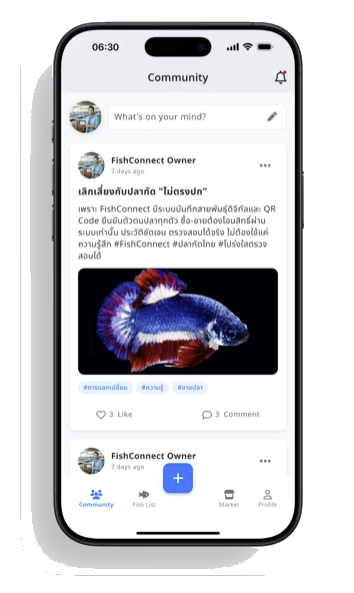
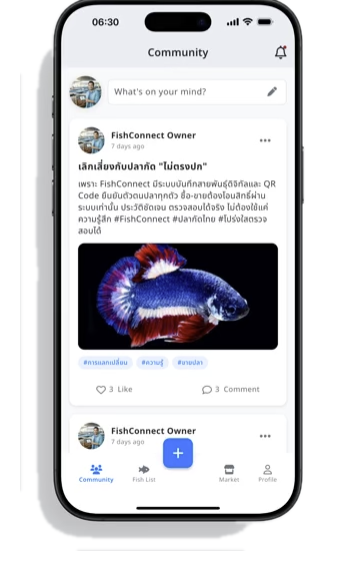
Final polish: feathered phone edges, fish visible (opacity .28-.35), no rectangular borders

diff --git a/index.html b/index.html
@@ -90,11 +90,12 @@ h1, h2, h3, h4 {
   line-height: 1.7; max-width: 640px;
 }
 
-/* ============== AMBIENT FISH BG (subtle, low opacity) ============== */
+/* ============== AMBIENT FISH BG ============== */
 .ambient {
   position: absolute; pointer-events: none; z-index: 0;
-  opacity: .14; filter: blur(.5px);
-  mix-blend-mode: screen;
+  opacity: .28;
+  -webkit-mask-image: radial-gradient(ellipse 60% 60% at center, black 25%, transparent 80%);
+          mask-image: radial-gradient(ellipse 60% 60% at center, black 25%, transparent 80%);
 }
 
 /* ============== NAV ============== */
@@ -203,8 +204,10 @@ section { position: relative; }
 @media (max-width: 920px) { .hero-actions { justify-content: center; } }
 .hero-img { animation: hero-float 8s ease-in-out infinite; }
 .hero-img img {
-  width: 100%; height: auto; max-width: 580px; margin: 0 auto;
-  filter: drop-shadow(0 0 100px rgba(79,122,255,.5));
+  width: 100%; height: auto; max-width: 600px; margin: 0 auto;
+  filter: drop-shadow(0 0 120px rgba(79,122,255,.55));
+  -webkit-mask-image: radial-gradient(ellipse 65% 65% at center, black 50%, transparent 88%);
+          mask-image: radial-gradient(ellipse 65% 65% at center, black 50%, transparent 88%);
 }
 @keyframes hero-float {
   0%, 100% { transform: translateY(0); }
@@ -278,21 +281,21 @@ section { position: relative; }
 .feature-img img.phone {
   position: relative; z-index: 2;
   width: 100%; max-width: 420px; height: auto;
-  filter: drop-shadow(0 30px 80px rgba(0,0,0,.55)) drop-shadow(0 0 80px rgba(79,122,255,.22));
+  filter: drop-shadow(0 30px 60px rgba(0,0,0,.55)) drop-shadow(0 0 100px rgba(79,122,255,.28));
 }
 
-/* Fish ambient at SECTION level — far from phone, very subtle */
+/* Fish ambient at SECTION level — visible but doesn't compete with phone */
 .feature .fish-bg {
   position: absolute; pointer-events: none; z-index: 0;
-  width: 50%; max-width: 620px; height: auto;
-  opacity: .10;
-  -webkit-mask-image: radial-gradient(ellipse at center, black 35%, transparent 75%);
-          mask-image: radial-gradient(ellipse at center, black 35%, transparent 75%);
+  width: 60%; max-width: 720px; height: auto;
+  opacity: .35;
+  -webkit-mask-image: radial-gradient(ellipse 60% 60% at center, black 25%, transparent 75%);
+          mask-image: radial-gradient(ellipse 60% 60% at center, black 25%, transparent 75%);
 }
-.feature .fish-bg.tl { top: -8%; left: -12%; }
-.feature .fish-bg.tr { top: -8%; right: -12%; }
-.feature .fish-bg.bl { bottom: -8%; left: -12%; }
-.feature .fish-bg.br { bottom: -8%; right: -12%; }
+.feature .fish-bg.tl { top: -15%; left: -18%; }
+.feature .fish-bg.tr { top: -15%; right: -18%; }
+.feature .fish-bg.bl { bottom: -15%; left: -18%; }
+.feature .fish-bg.br { bottom: -15%; right: -18%; }
 
 /* ============== GALLERY ============== */
 .gallery {
